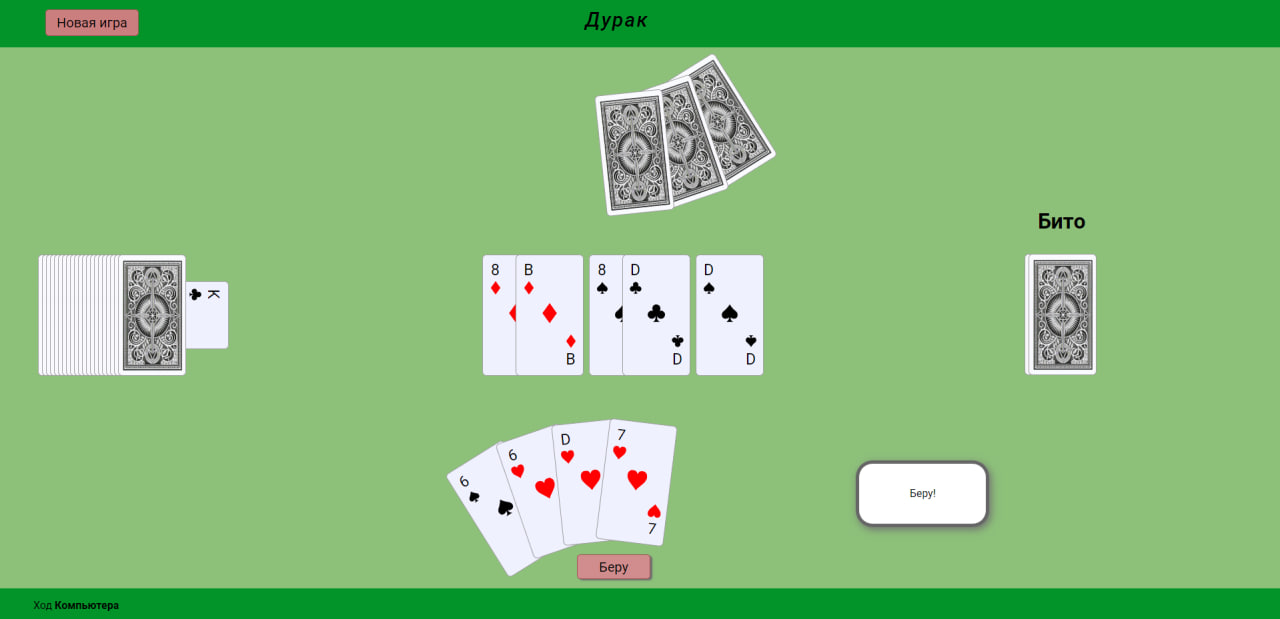
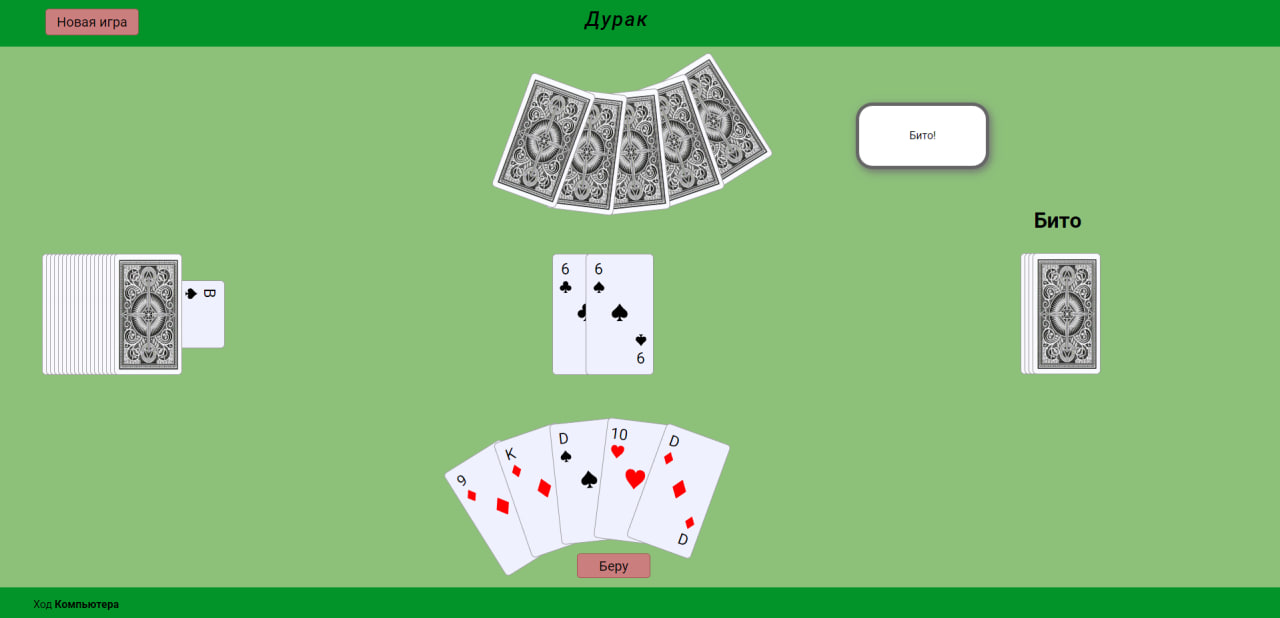
fix opponent cards

diff --git a/src/components/body/components/hends/handOpponent/HandOpponent.tsx b/src/components/body/components/hends/handOpponent/HandOpponent.tsx
@@ -17,7 +17,7 @@ const HandOpponent: React.FC = () => {
     const { setCardOnTablePersonT, addCardsLoserT, getCardsT, addTrashCardsT, changeAttackerT } = useActions()
 
     useEffect(() => {
-        if (hendOpponent.length > 6 || hendOpponent.length < 4) { //если карт больше 6 то изменяе стили
+        if (hendOpponent.length > 7 || hendOpponent.length < 4) { //если карт больше 6 то изменяе стили
             setElementLine(true)
         }
         else {
@@ -37,10 +37,10 @@ const HandOpponent: React.FC = () => {
                 setMarginHend('0')
                 break;
             case 7:
-                setMarginHend('-20px')
+                setMarginHend('90px')
                 break;
             case 4:
-                setMarginHend('70px')
+                setMarginHend('-111px')
                 break;
             case 3:
                 setMarginHend('0')

diff --git a/src/components/body/components/hends/handOpponent/handOpponent.scss b/src/components/body/components/hends/handOpponent/handOpponent.scss
@@ -20,12 +20,12 @@
 
         .card:nth-last-child(7):first-child,
         .card:nth-last-child(7):first-child ~ .card{
-            transform-origin: 71% 178% 0 !important;
+            transform-origin: 27% -85% 0 !important;
         }
 
         .card:nth-last-child(4):first-child,
         .card:nth-last-child(4):first-child ~ .card{
-            transform-origin: 28% 189% 0 !important;
+            transform-origin: 75% -120% 0 !important;
         }
 
         .card{
